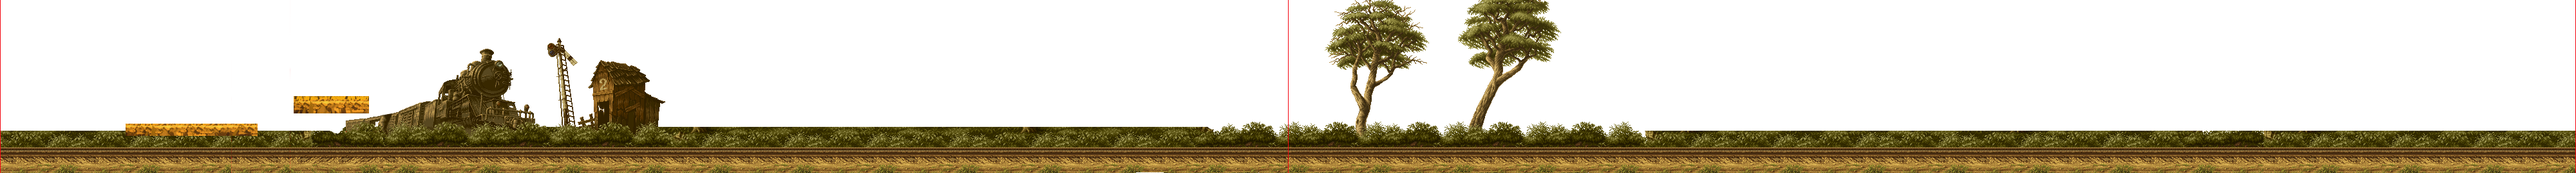
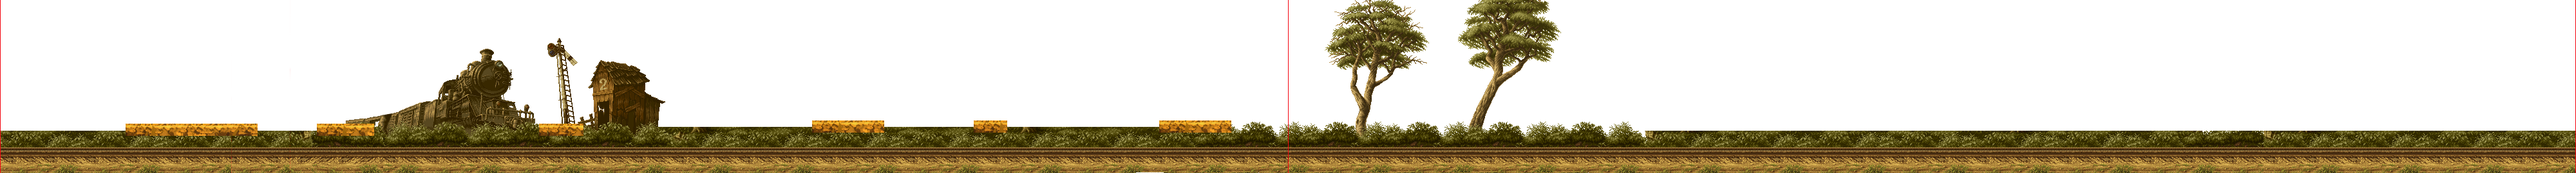
plataformas funcionando (hasta la mitad). falta ver tema momias que quedan flotando en las plataformas. y el cierre de la ventana .

diff --git a/Servidor/Escenario.cpp b/Servidor/Escenario.cpp
@@ -23,17 +23,50 @@ void Escenario::crearPlataformas(){
 
 	Plataforma nueva;
 	nueva.setId(idPlataforma);
-	nueva.setX(399);
+	nueva.setX(397);
 	nueva.setY(360);
-	nueva.setLong(450);
-
-	plataforma1 = nueva;
+	nueva.setLong(436);
 
 	plataformas.push_back(nueva);
-
 	idPlataforma++;
 
+	nueva.setId(idPlataforma);
+	nueva.setX(1050);
+	nueva.setLong(219);
 
+	plataformas.push_back(nueva);
+	idPlataforma++;
+
+     // 3 - id2
+    nueva.setId(idPlataforma);
+	nueva.setX(1808);
+	nueva.setLong(142);
+
+	plataformas.push_back(nueva);
+	idPlataforma++;
+
+   //4
+    nueva.setId(idPlataforma);
+	nueva.setX(2758);
+	nueva.setLong(230);
+
+	plataformas.push_back(nueva);
+	idPlataforma++;
+
+	//5
+    nueva.setId(idPlataforma);
+	nueva.setX(3320);
+	nueva.setLong(110);
+
+	plataformas.push_back(nueva);
+	idPlataforma++;
+
+	//6
+    nueva.setId(idPlataforma);
+	nueva.setX(3960);
+	nueva.setLong(255);
+
+	plataformas.push_back(nueva);
 
 
 }
@@ -42,13 +75,9 @@ bool Escenario::verificarPlataforma(int spriteX, int spriteY){
 
 
 	bool estaApoyado = false;
-	//int totalPlataforma = plataforma1.getLong();
 
 	for (list<Plataforma>::iterator it = plataformas.begin(); it != plataformas.end(); ++it) {
-		if (spriteX > it->getX() && spriteX < it->getLong() && (spriteY < HPLAT_NIVEL1 || spriteY < HPLAT_NIVEL2)){
-
-	    //if (spriteX > plataforma1.getX() && spriteX < totalPlataforma && (spriteY < HPLAT_NIVEL1 || spriteY < HPLAT_NIVEL2)){
-		cout << "entro a la plataformaaaaaaa" << endl;
+		if (spriteX > it->getX() && spriteX < it->getLong() && (spriteY < HPLAT_NIVEL1)){
 		estaApoyado = true;
 		}
 	}
@@ -57,34 +86,15 @@ bool Escenario::verificarPlataforma(int spriteX, int spriteY){
 
 }
 
-int Escenario::plataformaActual(int spriteX, int spriteY){
-	int basePlataforma = 0;
-
-	//int a = pthread_mutex_trylock(&mutexListaEscenario);
-	for (list<Plataforma>::iterator it = plataformas.begin(); it != plataformas.end(); ++it)
-		if (spriteX > it->getX() && spriteX < it->getLong() && (spriteY < HPLAT_NIVEL1 || spriteY < HPLAT_NIVEL2)){
-			cout << "estoy en la plataforma: " << it->getId() << endl;
-			cout << " imprime x : " << it->getX() << endl;
-			cout << " imprime y : " << it->getY() << endl;
-			basePlataforma = it->getY();
-			cout << "devuelvo un: " << basePlataforma <<endl;
-			break;
-		}
-	//pthread_mutex_unlock (&mutexListaEscenario);
-
-	return basePlataforma;
-}
 
 bool Escenario::salirPlataforma (int spriteX, int spriteY){
 
-	bool saleDePlataforma = false;
-	//int totalPlataforma = plataforma1.getLong();
+	bool saleDePlataforma = true;
 
 	for (list<Plataforma>::iterator it = plataformas.begin(); it != plataformas.end(); ++it) {
 
-	   if (spriteX < it->getX() || spriteX > it->getLong()){
-		 cout << "salee de la plataforma" << endl;
-		 saleDePlataforma = true;
+	   if (spriteX > it->getX() && spriteX < it->getLong()){
+		 saleDePlataforma = false;
 	   }
 
 	}

diff --git a/Servidor/DibujableServer.cpp b/Servidor/DibujableServer.cpp
@@ -156,17 +156,12 @@ bool DibujableServer::mover(int xCamara){
 	if ( (x < xCamara) || (x > xCamara+(800-80)) ) x -= mVelX; //lo vuelvo a como estaba antes..
 	y += mVelY;
 
-	/*
-	cout << "x: " << this->x << endl;
-	*/
-	cout << "y: " << this->y << endl;
-
 
 	//verifico que no este en una plataforma
 	if (!estaEnPlataforma){
        if (escenario.verificarPlataforma(this->x,this->y)){
     	   mVelY = 0;
-		   y = 360;
+		   y = NIVEL_PLAT;
            spY = 1;
 		   spX = 0;
 		   estaEnPlataforma = true;
@@ -179,9 +174,9 @@ bool DibujableServer::mover(int xCamara){
 		estaEnPlataforma = false;
 		estaEnElPiso = false;
       }else{ // lo pongo de nuevo en la plataforma si se pasa.
-          if(y > 360){
+          if(y > NIVEL_PLAT){
         	  mVelY = 0;
-        	  y = 360;
+        	  y = NIVEL_PLAT;
       		  spY = 1;
       		  spX = 0;
         	  estaEnElPiso = true;
@@ -192,9 +187,9 @@ bool DibujableServer::mover(int xCamara){
 
 
 	//ACA HAY Q PONERLO EN EL PISO SI SE PASA...
-	if ( y > 500) {
+	if ( y > NIVEL_PISO) {
 		mVelY = 0;
-		y = 500;
+		y = NIVEL_PISO;
 		spY = 1;
 		spX = 0;
 		estaEnElPiso = true;

diff --git a/Servidor/Escenario.h b/Servidor/Escenario.h
@@ -16,7 +16,6 @@
 using namespace std;
 
 static int HPLAT_NIVEL1 = 380;
-static int HPLAT_NIVEL2 = 240;
 
 
 class Escenario {
@@ -30,7 +29,6 @@ public:
 	Escenario();
 	void crearPlataformas();
 	bool verificarPlataforma(int spriteX, int spriteY);
-	int plataformaActual(int spriteX, int spriteY);
 	bool salirPlataforma (int spriteX, int spriteY);
 	virtual ~Escenario();
 };

diff --git a/Servidor/DibujableServer.h b/Servidor/DibujableServer.h
@@ -12,6 +12,8 @@ static int VELOCIDADX_AIRE = 13;
 static int VELOCIDAD_CAMINANDO = 15;
 static int HMAX_SALTO = 200;
 static int VELY_SUBIDA = 30;
+static int NIVEL_PLAT = 360;
+static int NIVEL_PISO = 500;
 
 
 class DibujableServer {
